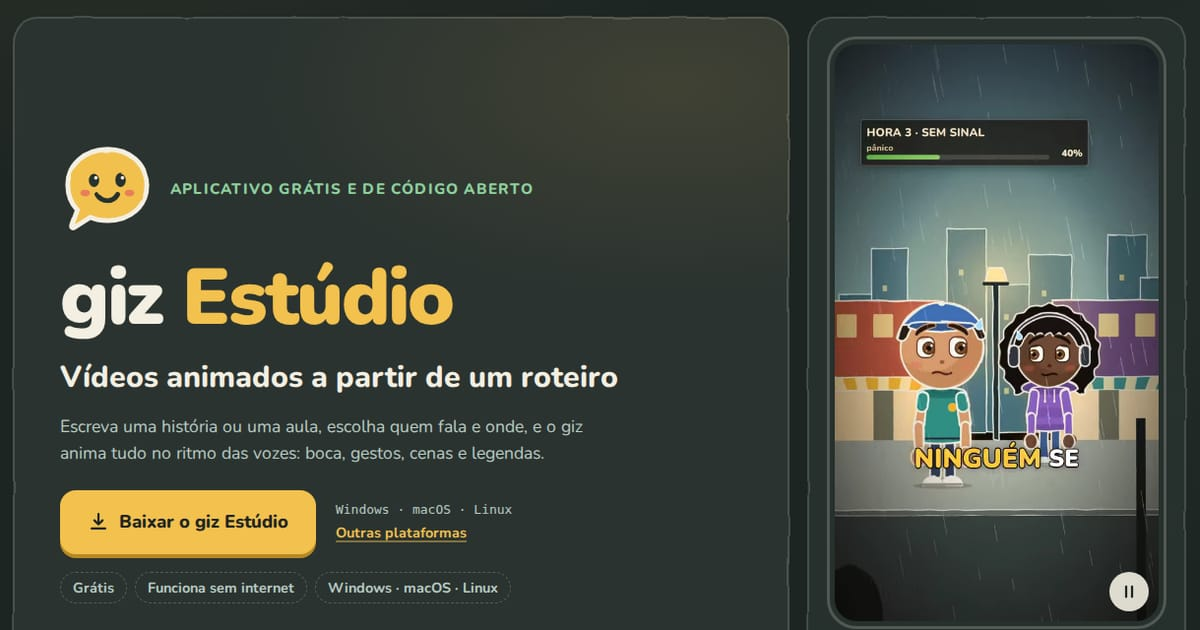
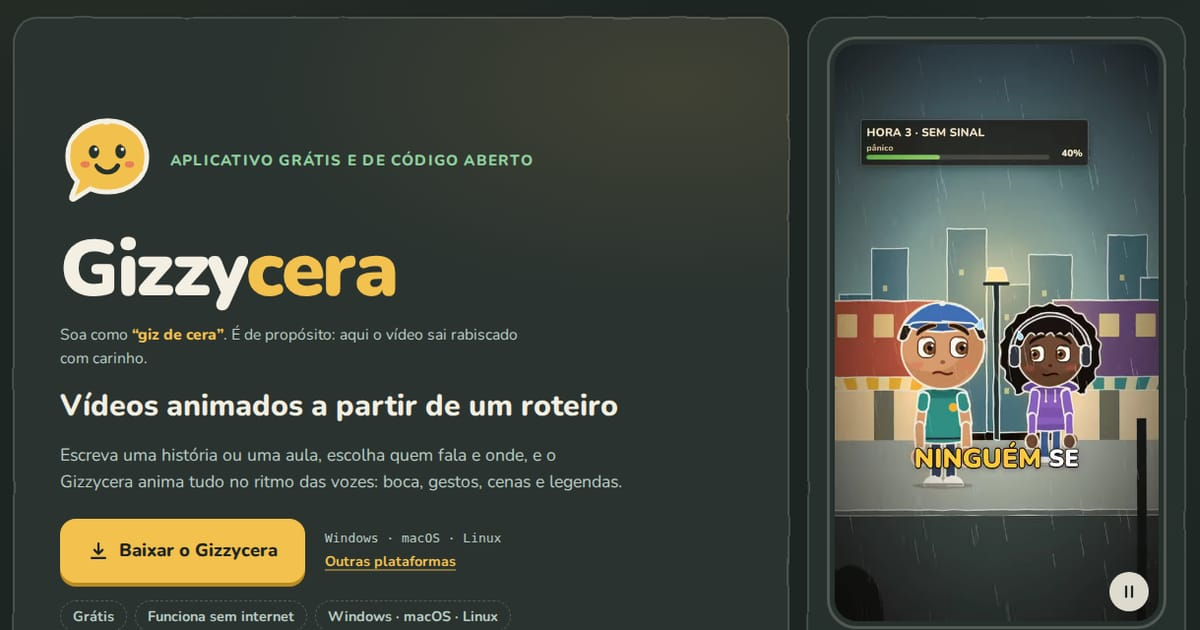
site: the landing page carries the new name, Gizzycera (sounds like "giz de cera", crayon)
- Brand, titles and texts say Gizzycera (no "Estúdio" suffix), with a playful line about the name in pt-BR and en.
- Links point to AndersonGuilherme/gizzycera and the Pages URL andersonguilherme.github.io/gizzycera; the command
  line block ends with `npx gizzy --help`.
- release.yml: the stable copies are gizzycera-windows-x64-setup.exe, -macos-arm64.dmg, -linux-amd64.deb,
  -linux-x64.AppImage and -linux-x64.zip (plus the mac and Windows zips); the source patterns no longer
  depend on the product part of the versioned names.
- README: the site links use the new Pages URL.

Changed region(s): [[0.0308, 0.181, 0.5242, 0.9952], [0.74, 0.4825, 0.925, 0.754], [0.925, 0.6635, 0.9558, 0.6937]]

diff --git a/site/index.html b/site/index.html
@@ -5,13 +5,13 @@
   <meta name="viewport" content="width=device-width, initial-scale=1">
   <meta http-equiv="Content-Security-Policy" content="default-src 'none'; script-src 'self'; style-src 'self'; img-src 'self'; media-src 'self'; font-src 'self'; connect-src https://api.github.com; base-uri 'none'; form-action 'none'">
   <meta name="referrer" content="strict-origin-when-cross-origin">
-  <title>giz Estúdio — vídeos animados a partir de um roteiro</title>
-  <meta name="description" content="giz Estúdio: aplicativo grátis e de código aberto que transforma um roteiro em vídeo animado, com personagens que falam, cenários, vozes e legendas. Windows, macOS e Linux.">
+  <title>Gizzycera — vídeos animados a partir de um roteiro</title>
+  <meta name="description" content="Gizzycera: aplicativo grátis e de código aberto que transforma um roteiro em vídeo animado, com personagens que falam, cenários, vozes e legendas. Windows, macOS e Linux.">
   <meta name="theme-color" content="#1d2523">
   <meta property="og:type" content="website">
-  <meta property="og:title" content="giz Estúdio">
+  <meta property="og:title" content="Gizzycera">
   <meta property="og:description" content="Vídeos animados a partir de um roteiro. Grátis, de código aberto, para Windows, macOS e Linux.">
-  <meta property="og:image" content="https://andersonguilherme.github.io/giz/assets/img/og.jpg">
+  <meta property="og:image" content="https://andersonguilherme.github.io/gizzycera/assets/img/og.jpg">
   <meta name="twitter:card" content="summary_large_image">
   <link rel="icon" href="assets/icon.svg" type="image/svg+xml">
   <link rel="preload" href="assets/fonts/nunito-latin.woff2" as="font" type="font/woff2" crossorigin>
@@ -19,7 +19,7 @@
   <script src="main.js" defer></script>
 </head>
 <body>
-  <!-- Shared drawing defs: the chalk edge (a little noise nudges each stroke) and the giz mark. -->
+  <!-- Shared drawing defs: the chalk edge (a little noise nudges each stroke) and the Gizzycera mark. -->
   <svg class="defs" aria-hidden="true" focusable="false">
     <defs>
       <filter id="chalk" x="-10%" y="-10%" width="120%" height="120%">
@@ -49,14 +49,14 @@
 
   <header class="topbar">
     <div class="wrap topbar-inner">
-      <a class="brand" href="#top" aria-label="giz Estúdio">
+      <a class="brand" href="#top" aria-label="Gizzycera">
         <svg class="brand-mark" width="36" height="36" aria-hidden="true"><use href="#mark"/></svg>
-        <span class="brand-name">giz</span>
+        <span class="brand-name">Gizzycera</span>
       </a>
       <nav class="topnav" aria-label="Seções" data-i18n-attr="aria-label:nav.label">
         <a href="#flow" data-i18n="nav.flow">Como funciona</a>
         <a href="#cast" data-i18n="nav.cast">Personagens</a>
-        <a href="https://github.com/AndersonGuilherme/giz" rel="noopener">GitHub</a>
+        <a href="https://github.com/AndersonGuilherme/gizzycera" rel="noopener">GitHub</a>
         <a class="topnav-download" href="#download" data-i18n="nav.download">Baixar</a>
       </nav>
       <button class="lang" type="button" id="lang-toggle" lang="en" aria-label="Read in English">EN</button>
@@ -72,13 +72,14 @@
           <svg class="hero-mark" width="96" height="96" aria-hidden="true"><use href="#mark"/></svg>
           <p class="eyebrow" data-i18n="hero.eyebrow">Aplicativo grátis e de código aberto</p>
         </div>
-        <h1 id="hero-title">giz <span class="accent">Estúdio</span></h1>
+        <h1 id="hero-title">Gizzy<span class="accent">cera</span></h1>
+        <p class="name-note" data-i18n-html="hero.name">Soa como <b>“giz de cera”</b>. É de propósito: aqui o vídeo sai rabiscado com carinho.</p>
         <p class="tagline" data-i18n="hero.tagline">Vídeos animados a partir de um roteiro</p>
-        <p class="lead" data-i18n="hero.lead">Escreva uma história ou uma aula, escolha quem fala e onde, e o giz anima tudo no ritmo das vozes: boca, gestos, cenas e legendas.</p>
+        <p class="lead" data-i18n="hero.lead">Escreva uma história ou uma aula, escolha quem fala e onde, e o Gizzycera anima tudo no ritmo das vozes: boca, gestos, cenas e legendas.</p>
         <div class="hero-cta">
           <a class="btn btn-primary" id="hero-download" href="#download">
             <svg class="btn-icon" viewBox="0 0 24 24" width="22" height="22" aria-hidden="true"><path d="M12 3.5v11.5m0 0-4.5-4.5M12 15l4.5-4.5M4.5 19.5h15" fill="none" stroke="currentColor" stroke-width="2.4" stroke-linecap="round" stroke-linejoin="round"/></svg>
-            <span id="hero-download-label" data-i18n="hero.download">Baixar o giz Estúdio</span>
+            <span id="hero-download-label" data-i18n="hero.download">Baixar o Gizzycera</span>
           </a>
           <div class="hero-cta-meta">
             <span id="hero-download-file" class="mono">Windows · macOS · Linux</span>
@@ -94,7 +95,7 @@
 
       <!-- 2. Example clip -->
       <section class="tile tile-video" aria-labelledby="video-title">
-        <h2 id="video-title" class="sr-only" data-i18n="video.title">Um vídeo feito no giz</h2>
+        <h2 id="video-title" class="sr-only" data-i18n="video.title">Um vídeo feito no Gizzycera</h2>
         <div class="phone">
           <video id="story-loop" muted loop playsinline preload="metadata" poster="assets/img/story-poster.webp"
                  width="540" height="960" aria-describedby="video-caption">
@@ -108,7 +109,7 @@
             <span class="sr-only" id="video-toggle-label">Pausar o vídeo</span>
           </button>
         </div>
-        <p class="video-caption" id="video-caption" data-i18n-html="video.caption">Feito no giz: <b>“24 horas sem internet”</b>, uma história em 9:16 com legenda palavra a palavra.</p>
+        <p class="video-caption" id="video-caption" data-i18n-html="video.caption">Feito no Gizzycera: <b>“24 horas sem internet”</b>, uma história em 9:16 com legenda palavra a palavra.</p>
       </section>
 
       <!-- 3. Script to video -->
@@ -203,7 +204,7 @@
           </li>
           <li>
             <span class="tag tag-mic" data-i18n="tag.mic">microfone</span>
-            <span><b data-i18n="voice.rec">Sua voz</b> <span data-i18n="voice.rec.text">Grave cada fala direto no Estúdio.</span></span>
+            <span><b data-i18n="voice.rec">Sua voz</b> <span data-i18n="voice.rec.text">Grave cada fala direto no app.</span></span>
           </li>
         </ul>
         <img class="shot" src="assets/img/app-voices.webp" width="760" height="258" loading="lazy" decoding="async" alt="Etapa Vozes: falas pendentes com os botões Gerar e Gravar minha voz, e Gerar todas as pendentes." data-i18n-attr="alt:voice.alt">
@@ -212,7 +213,7 @@
       <!-- 7. Optional AI -->
       <section class="tile tile-ai" aria-labelledby="ai-title">
         <h2 id="ai-title" data-i18n="ai.title">IA é opcional</h2>
-        <p class="sub" data-i18n="ai.sub">Traga a sua chave (Claude, OpenAI, Gemini ou fal) para rascunhar roteiros e gerar cenários. Antes de cada gasto, o Estúdio mostra a estimativa e pede confirmação.</p>
+        <p class="sub" data-i18n="ai.sub">Traga a sua chave (Claude, OpenAI, Gemini ou fal) para rascunhar roteiros e gerar cenários. Antes de cada gasto, o app mostra a estimativa e pede confirmação.</p>
         <img class="shot" src="assets/img/app-estimate.webp" width="640" height="330" loading="lazy" decoding="async" alt="Janela Gerar o roteiro com IA: estimativa de até US$ 0,30 na primeira chamada, com os botões Cancelar e Gerar roteiro." data-i18n-attr="alt:ai.alt">
         <p class="stamp" data-i18n="ai.free">Tudo grátis e local é possível.</p>
       </section>
@@ -243,17 +244,18 @@
           <h2 id="oss-title" data-i18n="oss.title">Código aberto, licença MIT</h2>
           <p class="sub" data-i18n="oss.sub">Leia, mude e compartilhe. O mesmo motor também roda pela linha de comando, para quem prefere o terminal.</p>
           <div class="oss-links">
-            <a class="btn btn-ghost" href="https://github.com/AndersonGuilherme/giz" rel="noopener">
+            <a class="btn btn-ghost" href="https://github.com/AndersonGuilherme/gizzycera" rel="noopener">
               <svg class="btn-icon" viewBox="0 0 24 24" width="20" height="20" aria-hidden="true"><path d="M8.5 7 3.5 12l5 5M15.5 7l5 5-5 5" fill="none" stroke="currentColor" stroke-width="2.4" stroke-linecap="round" stroke-linejoin="round"/></svg>
               <span data-i18n="oss.repo">Ver o código no GitHub</span>
             </a>
-            <a class="link" href="https://github.com/AndersonGuilherme/giz#requisitos-linha-de-comando" rel="noopener" data-i18n="oss.cli">Guia da linha de comando</a>
+            <a class="link" href="https://github.com/AndersonGuilherme/gizzycera#requisitos-linha-de-comando" rel="noopener" data-i18n="oss.cli">Guia da linha de comando</a>
           </div>
         </div>
-        <pre class="terminal" aria-label="Comandos para instalar pela linha de comando" data-i18n-attr="aria-label:oss.term"><code><span class="prompt" aria-hidden="true">$ </span>git clone https://github.com/AndersonGuilherme/giz.git
-<span class="prompt" aria-hidden="true">$ </span>cd giz/motor
+        <pre class="terminal" aria-label="Comandos para instalar pela linha de comando" data-i18n-attr="aria-label:oss.term"><code><span class="prompt" aria-hidden="true">$ </span>git clone https://github.com/AndersonGuilherme/gizzycera.git
+<span class="prompt" aria-hidden="true">$ </span>cd gizzycera/motor
 <span class="prompt" aria-hidden="true">$ </span>ONNXRUNTIME_NODE_INSTALL=skip npm install
-<span class="prompt" aria-hidden="true">$ </span>npm run setup</code></pre>
+<span class="prompt" aria-hidden="true">$ </span>npm run setup
+<span class="prompt" aria-hidden="true">$ </span>npx gizzy --help</code></pre>
       </section>
     </div>
 
@@ -261,74 +263,74 @@
     <section class="downloads" id="download" aria-labelledby="download-title">
       <div class="wrap">
         <div class="downloads-head">
-          <h2 id="download-title" data-i18n="dl.title">Baixar o giz Estúdio</h2>
+          <h2 id="download-title" data-i18n="dl.title">Baixar o Gizzycera</h2>
           <p class="sub" data-i18n="dl.sub">Escolha o arquivo do seu sistema. Na primeira execução, um assistente baixa o modelo de voz (5,9 GB, uma vez só); depois tudo funciona sem internet.</p>
           <p class="release-status" id="release-status" role="status" aria-live="polite"></p>
         </div>
 
         <ul class="dl-grid">
-          <li class="dl-card" data-os="windows" data-file="giz-estudio-windows-x64-setup.exe">
+          <li class="dl-card" data-os="windows" data-file="gizzycera-windows-x64-setup.exe">
             <div class="dl-top">
               <span class="dl-ext mono">.exe</span>
               <span class="dl-recommended" data-i18n="dl.yours">Seu sistema</span>
             </div>
             <h3>Windows</h3>
             <p class="dl-req" data-i18n="dl.win.req">Windows 10 ou 11, 64 bits</p>
-            <a class="btn btn-primary btn-block dl-link" href="https://github.com/AndersonGuilherme/giz/releases/latest/download/giz-estudio-windows-x64-setup.exe">
+            <a class="btn btn-primary btn-block dl-link" href="https://github.com/AndersonGuilherme/gizzycera/releases/latest/download/gizzycera-windows-x64-setup.exe">
               <span data-i18n="dl.win.btn">Baixar o instalador</span> <span class="dl-size"></span>
             </a>
             <p class="dl-note" data-i18n-html="dl.win.note">Na tela “O Windows protegeu o computador”, clique em <b>Mais informações → Executar assim mesmo</b>.</p>
           </li>
-          <li class="dl-card" data-os="macos" data-file="giz-estudio-macos-arm64.dmg">
+          <li class="dl-card" data-os="macos" data-file="gizzycera-macos-arm64.dmg">
             <div class="dl-top">
               <span class="dl-ext mono">.dmg</span>
               <span class="dl-recommended" data-i18n="dl.yours">Seu sistema</span>
             </div>
             <h3>macOS</h3>
             <p class="dl-req" data-i18n="dl.mac.req">Apple Silicon (M1 ou mais novo)</p>
-            <a class="btn btn-primary btn-block dl-link" href="https://github.com/AndersonGuilherme/giz/releases/latest/download/giz-estudio-macos-arm64.dmg">
+            <a class="btn btn-primary btn-block dl-link" href="https://github.com/AndersonGuilherme/gizzycera/releases/latest/download/gizzycera-macos-arm64.dmg">
               <span data-i18n="dl.mac.btn">Baixar o .dmg</span> <span class="dl-size"></span>
             </a>
             <p class="dl-note" data-i18n-html="dl.mac.note">Arraste para Aplicativos. No macOS 15 (Sequoia), se ele não abrir: <b>Ajustes do Sistema → Privacidade e Segurança → Abrir Mesmo Assim</b>.</p>
           </li>
-          <li class="dl-card" data-os="linux" data-file="giz-estudio-linux-amd64.deb">
+          <li class="dl-card" data-os="linux" data-file="gizzycera-linux-amd64.deb">
             <div class="dl-top">
               <span class="dl-ext mono">.deb</span>
               <span class="dl-recommended" data-i18n="dl.yours">Seu sistema</span>
             </div>
             <h3>Linux <span class="h3-sub">Ubuntu · Debian</span></h3>
             <p class="dl-req" data-i18n="dl.deb.req">64 bits (amd64)</p>
-            <a class="btn btn-primary btn-block dl-link" href="https://github.com/AndersonGuilherme/giz/releases/latest/download/giz-estudio-linux-amd64.deb">
+            <a class="btn btn-primary btn-block dl-link" href="https://github.com/AndersonGuilherme/gizzycera/releases/latest/download/gizzycera-linux-amd64.deb">
               <span data-i18n="dl.deb.btn">Baixar o .deb</span> <span class="dl-size"></span>
             </a>
-            <p class="dl-note" data-i18n-html="dl.deb.note">Instale com <code>sudo apt install ./giz-estudio-linux-amd64.deb</code>. No Ubuntu 24.04 ou mais novo, <b>use o .deb</b>.</p>
+            <p class="dl-note" data-i18n-html="dl.deb.note">Instale com <code>sudo apt install ./gizzycera-linux-amd64.deb</code>. No Ubuntu 24.04 ou mais novo, <b>use o .deb</b>.</p>
           </li>
-          <li class="dl-card" data-os="linux-other" data-file="giz-estudio-linux-x64.AppImage">
+          <li class="dl-card" data-os="linux-other" data-file="gizzycera-linux-x64.AppImage">
             <div class="dl-top"><span class="dl-ext mono">AppImage</span></div>
             <h3>Linux <span class="h3-sub" data-i18n="dl.app.distros">outras distribuições</span></h3>
             <p class="dl-req" data-i18n="dl.app.req">64 bits (x64), com FUSE</p>
-            <a class="btn btn-secondary btn-block dl-link" href="https://github.com/AndersonGuilherme/giz/releases/latest/download/giz-estudio-linux-x64.AppImage">
+            <a class="btn btn-secondary btn-block dl-link" href="https://github.com/AndersonGuilherme/gizzycera/releases/latest/download/gizzycera-linux-x64.AppImage">
               <span data-i18n="dl.app.btn">Baixar o AppImage</span> <span class="dl-size"></span>
             </a>
             <p class="dl-note" data-i18n-html="dl.app.note">Dê <code>chmod +x</code> e abra. Precisa de <code>libfuse2</code>. No Ubuntu 24.04 ou mais novo, use o .deb.</p>
           </li>
-          <li class="dl-card" data-os="linux-zip" data-file="giz-estudio-linux-x64.zip">
+          <li class="dl-card" data-os="linux-zip" data-file="gizzycera-linux-x64.zip">
             <div class="dl-top"><span class="dl-ext mono">.zip</span></div>
             <h3>Linux <span class="h3-sub" data-i18n="dl.zip.sub">sem instalar</span></h3>
             <p class="dl-req" data-i18n="dl.zip.req">64 bits (x64), portátil</p>
-            <a class="btn btn-secondary btn-block dl-link" href="https://github.com/AndersonGuilherme/giz/releases/latest/download/giz-estudio-linux-x64.zip">
+            <a class="btn btn-secondary btn-block dl-link" href="https://github.com/AndersonGuilherme/gizzycera/releases/latest/download/gizzycera-linux-x64.zip">
               <span data-i18n="dl.zip.btn">Baixar o .zip</span> <span class="dl-size"></span>
             </a>
-            <p class="dl-note" data-i18n-html="dl.zip.note">Descompacte numa pasta sua e abra o programa <code>giz-estudio</code>.</p>
+            <p class="dl-note" data-i18n-html="dl.zip.note">Descompacte numa pasta sua e abra o programa <code>gizzycera</code>.</p>
           </li>
         </ul>
 
         <div class="dl-foot">
           <p data-i18n-html="dl.unsigned">Os instaladores <b>ainda não são assinados</b>, então o sistema avisa na primeira vez. É esperado.</p>
           <p>
-            <a class="link" href="https://github.com/AndersonGuilherme/giz#instalar" rel="noopener" data-i18n="dl.readme">Passo a passo no README, seção Instalar</a>
+            <a class="link" href="https://github.com/AndersonGuilherme/gizzycera#instalar" rel="noopener" data-i18n="dl.readme">Passo a passo no README, seção Instalar</a>
             <span aria-hidden="true">·</span>
-            <a class="link" href="https://github.com/AndersonGuilherme/giz/releases" rel="noopener" data-i18n="dl.all">Todas as versões</a>
+            <a class="link" href="https://github.com/AndersonGuilherme/gizzycera/releases" rel="noopener" data-i18n="dl.all">Todas as versões</a>
           </p>
         </div>
       </div>
@@ -337,12 +339,12 @@
 
   <footer class="footer">
     <div class="wrap footer-inner">
-      <a class="brand" href="#top" aria-label="giz Estúdio">
+      <a class="brand" href="#top" aria-label="Gizzycera">
         <svg class="brand-mark" width="28" height="28" aria-hidden="true"><use href="#mark"/></svg>
-        <span class="brand-name">giz</span>
+        <span class="brand-name">Gizzycera</span>
       </a>
       <p data-i18n-html="footer.text">Código aberto sob a licença MIT. Os vídeos são renderizados com o <a class="link" href="https://www.remotion.dev/license" rel="noopener">Remotion</a>, grátis para pessoas e empresas de até 3 pessoas.</p>
-      <p><a class="link" href="https://github.com/AndersonGuilherme/giz" rel="noopener">github.com/AndersonGuilherme/giz</a></p>
+      <p><a class="link" href="https://github.com/AndersonGuilherme/gizzycera" rel="noopener">github.com/AndersonGuilherme/gizzycera</a></p>
     </div>
   </footer>
 </body>

diff --git a/site/main.js b/site/main.js
@@ -1,14 +1,14 @@
-// giz Estúdio landing page: language toggle (pt-BR in the HTML, English here), the visitor's installer in the hero,
+// Gizzycera landing page: language toggle (pt-BR in the HTML, English here), the visitor's installer in the hero,
 // the latest release's version and file sizes from the GitHub API, and the example clip's play/pause.
 // No dependencies, no trackers; the page works without this file (pt-BR, every download link in place).
 'use strict';
 
-const REPO = 'AndersonGuilherme/giz';
+const REPO = 'AndersonGuilherme/gizzycera';
 const RELEASES_URL = `https://github.com/${REPO}/releases`;
 const API_LATEST = `https://api.github.com/repos/${REPO}/releases/latest`;
-const CACHE_KEY = 'giz-release-v1';
+const CACHE_KEY = 'gizzycera-release-v1';
 const CACHE_MS = 10 * 60 * 1000;
-const LANG_KEY = 'giz-lang';
+const LANG_KEY = 'gizzycera-lang';
 
 // The English text. The Portuguese text is the HTML itself, read once at start.
 const EN = {
@@ -18,16 +18,17 @@ const EN = {
   'nav.cast': 'Characters',
   'nav.download': 'Download',
   'hero.eyebrow': 'A free, open-source app',
+  'hero.name': 'Say it like <b>“giz de cera”</b>, Portuguese for crayon. On purpose: your videos come out doodled with love.',
   'hero.tagline': 'Animated videos from a script',
-  'hero.lead': 'Write a story or a lesson, pick who speaks and where, and giz animates it all to the rhythm of the voices: mouths, gestures, scenes and captions.',
-  'hero.download': 'Download giz Estúdio',
+  'hero.lead': 'Write a story or a lesson, pick who speaks and where, and Gizzycera animates it all to the rhythm of the voices: mouths, gestures, scenes and captions.',
+  'hero.download': 'Download Gizzycera',
   'hero.other': 'Other platforms',
   'hero.highlights': 'Highlights',
   'hero.chip.free': 'Free',
   'hero.chip.offline': 'Works offline',
   'hero.chip.os': 'Windows · macOS · Linux',
-  'video.title': 'A video made with giz',
-  'video.caption': 'Made with giz: <b>“24 hours without internet”</b>, a 9:16 story with word-by-word captions.',
+  'video.title': 'A video made with Gizzycera',
+  'video.caption': 'Made with Gizzycera: <b>“24 hours without internet”</b>, a 9:16 story with word-by-word captions.',
   'flow.title': 'From script to video',
   'flow.sub': 'Six steps along the top bar. Every change is checked and saved on its own, and the animation follows the audio: nothing is timed by hand.',
   'flow.idea': 'Idea',
@@ -83,10 +84,10 @@ const EN = {
   'voice.paid': 'Paid',
   'voice.paid.text': 'ElevenLabs or Fish Audio, with your own key.',
   'voice.rec': 'Your voice',
-  'voice.rec.text': 'Record each line right in the Studio.',
+  'voice.rec.text': 'Record each line right in the app.',
   'voice.alt': 'Voices step: pending lines with the Generate and Record my voice buttons, and Generate all pending.',
   'ai.title': 'AI is optional',
-  'ai.sub': 'Bring your own key (Claude, OpenAI, Gemini or fal) to draft scripts and generate scenarios. Before anything is spent, the Studio shows the estimate and asks you to confirm.',
+  'ai.sub': 'Bring your own key (Claude, OpenAI, Gemini or fal) to draft scripts and generate scenarios. Before anything is spent, the app shows the estimate and asks you to confirm.',
   'ai.alt': 'Generate the script with AI window: an estimate of up to US$ 0.30 for the first call, with the Cancel and Generate script buttons.',
   'ai.free': 'All free and local is possible.',
   'fmt.title': 'Vertical or horizontal',
@@ -102,7 +103,7 @@ const EN = {
   'oss.repo': 'See the code on GitHub',
   'oss.cli': 'Command-line guide',
   'oss.term': 'Commands to install from the command line',
-  'dl.title': 'Download giz Estúdio',
+  'dl.title': 'Download Gizzycera',
   'dl.sub': 'Pick the file for your system. On first run, a wizard downloads the voice model (5.9 GB, only once); after that everything works offline.',
   'dl.yours': 'Your system',
   'dl.win.req': 'Windows 10 or 11, 64-bit',
@@ -113,7 +114,7 @@ const EN = {
   'dl.mac.note': 'Drag it to Applications. On macOS 15 (Sequoia), if it won’t open: <b>System Settings → Privacy &amp; Security → Open Anyway</b>.',
   'dl.deb.req': '64-bit (amd64)',
   'dl.deb.btn': 'Download the .deb',
-  'dl.deb.note': 'Install with <code>sudo apt install ./giz-estudio-linux-amd64.deb</code>. On Ubuntu 24.04 or newer, <b>use the .deb</b>.',
+  'dl.deb.note': 'Install with <code>sudo apt install ./gizzycera-linux-amd64.deb</code>. On Ubuntu 24.04 or newer, <b>use the .deb</b>.',
   'dl.app.distros': 'other distributions',
   'dl.app.req': '64-bit (x64), with FUSE',
   'dl.app.btn': 'Download the AppImage',
@@ -121,7 +122,7 @@ const EN = {
   'dl.zip.sub': 'no install',
   'dl.zip.req': '64-bit (x64), portable',
   'dl.zip.btn': 'Download the .zip',
-  'dl.zip.note': 'Unzip it into a folder of yours and open the <code>giz-estudio</code> program.',
+  'dl.zip.note': 'Unzip it into a folder of yours and open the <code>gizzycera</code> program.',
   'dl.unsigned': 'The installers <b>are not signed yet</b>, so your system warns you the first time. That is expected.',
   'dl.readme': 'Step by step in the README, Install section',
   'dl.all': 'All versions',
@@ -131,7 +132,7 @@ const EN = {
 // Text built at run time, in both languages.
 const DYN = {
   'pt-BR': {
-    title: 'giz Estúdio — vídeos animados a partir de um roteiro',
+    title: 'Gizzycera — vídeos animados a partir de um roteiro',
     downloadFor: (os) => `Baixar para ${os}`,
     mobile: 'Disponível para Windows, macOS e Linux',
     version: (tag, date) => `Versão ${tag}${date ? `, de ${date}` : ''}`,
@@ -148,7 +149,7 @@ const DYN = {
     toggleLang: 'en',
   },
   en: {
-    title: 'giz Estúdio — animated videos from a script',
+    title: 'Gizzycera — animated videos from a script',
     downloadFor: (os) => `Download for ${os}`,
     mobile: 'Available for Windows, macOS and Linux',
     version: (tag, date) => `Version ${tag}${date ? `, released ${date}` : ''}`,
@@ -167,9 +168,9 @@ const DYN = {
 };
 
 const OS_INFO = {
-  windows: { name: 'Windows', file: 'giz-estudio-windows-x64-setup.exe', card: 'windows' },
-  macos: { name: 'macOS', file: 'giz-estudio-macos-arm64.dmg', card: 'macos' },
-  linux: { name: 'Linux', file: 'giz-estudio-linux-amd64.deb', card: 'linux' },
+  windows: { name: 'Windows', file: 'gizzycera-windows-x64-setup.exe', card: 'windows' },
+  macos: { name: 'macOS', file: 'gizzycera-macos-arm64.dmg', card: 'macos' },
+  linux: { name: 'Linux', file: 'gizzycera-linux-amd64.deb', card: 'linux' },
 };
 
 const storage = {

diff --git a/site/styles.css b/site/styles.css
@@ -492,3 +492,6 @@ a { color: inherit; }
   .cast-grid li { border-radius: 14px; }
   .era { left: 50%; top: auto; bottom: 4px; transform: translateX(-50%); font-size: 0.6rem; padding: 1px 6px; letter-spacing: 0.02em; }
 }
+
+.name-note { color: var(--chalk-dim); font-size: 0.98rem; margin-top: -8px; max-width: 52ch; }
+.name-note b { color: var(--yellow); font-weight: 800; }

diff --git a/README.md b/README.md
@@ -2,7 +2,7 @@
 
 **Transforme uma ideia em vídeo animado: uma história ou uma aula.** O **giz Estúdio** é um aplicativo de
 computador que leva você da ideia ao vídeo pronto, com personagens 2D que falam, gesticulam e reagem, legendas,
-cenários e efeitos sonoros. **[Conheça e baixe no site](https://andersonguilherme.github.io/giz/)**.
+cenários e efeitos sonoros. **[Conheça e baixe no site](https://andersonguilherme.github.io/gizzycera/)**.
 
 - **História ou aula**, em **9:16** (vertical, para Reels, Shorts e TikTok) ou **16:9** (horizontal, para o YouTube);
   o mesmo projeto renderiza nas duas proporções.
@@ -57,7 +57,7 @@ O resto deste README (a partir de *Requisitos*) é para quem prefere usar o giz 
 
 ### Baixar
 
-No site do giz, **[andersonguilherme.github.io/giz](https://andersonguilherme.github.io/giz/#download)**, o botão já
+No site, **[andersonguilherme.github.io/gizzycera](https://andersonguilherme.github.io/gizzycera/#download)**, o botão já
 escolhe o instalador do seu sistema. Ou, na página de **Releases** do repositório, baixe o arquivo do seu sistema:
 
 | Sistema | Arquivo | Como instalar |
